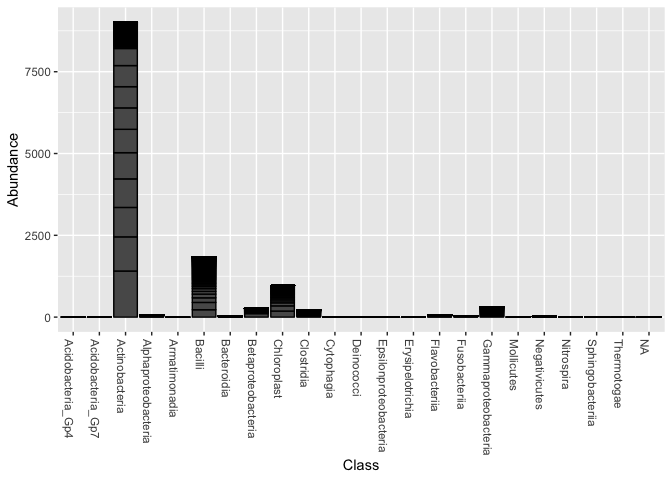
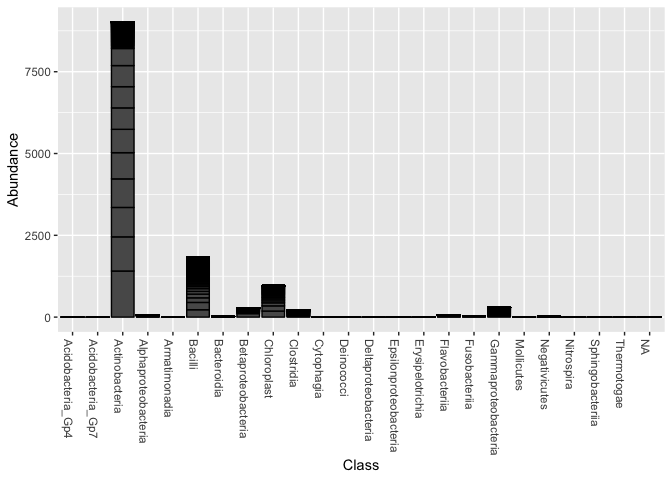
Passed Lint Check

Changed region(s): [[0.0938, 0.5312, 0.9688, 0.9688], [0.1562, 0.0312, 0.2188, 0.6562], [0.6875, 0.625, 0.7812, 0.6562]]

diff --git a/Analysis_Report_01_amplicons.md b/Analysis_Report_01_amplicons.md
@@ -2763,7 +2763,7 @@ unname(taxa)
     ##  [781,] "Bacteria" "Bacteroidetes"               "Flavobacteriia"       
     ##  [782,] "Bacteria" "Firmicutes"                  "Clostridia"           
     ##  [783,] "Bacteria" "Actinobacteria"              "Actinobacteria"       
-    ##  [784,] "Bacteria" NA                            NA                     
+    ##  [784,] "Bacteria" "Proteobacteria"              NA                     
     ##  [785,] "Bacteria" "Proteobacteria"              "Alphaproteobacteria"  
     ##  [786,] "Bacteria" "Firmicutes"                  "Bacilli"              
     ##  [787,] "Bacteria" "Proteobacteria"              "Gammaproteobacteria"  
@@ -2778,7 +2778,7 @@ unname(taxa)
     ##  [796,] "Bacteria" "Proteobacteria"              "Betaproteobacteria"   
     ##  [797,] "Bacteria" "Bacteroidetes"               "Sphingobacteriia"     
     ##  [798,] "Bacteria" "Proteobacteria"              "Gammaproteobacteria"  
-    ##  [799,] "Bacteria" "Candidatus_Saccharibacteria" NA                     
+    ##  [799,] "Bacteria" NA                            NA                     
     ##  [800,] "Bacteria" "Actinobacteria"              "Actinobacteria"       
     ##  [801,] "Bacteria" "Actinobacteria"              "Actinobacteria"       
     ##  [802,] "Bacteria" "Actinobacteria"              "Actinobacteria"       
@@ -3180,7 +3180,7 @@ unname(taxa)
     ## [1198,] "Bacteria" "Firmicutes"                  "Clostridia"           
     ## [1199,] "Bacteria" "Fusobacteria"                "Fusobacteriia"        
     ## [1200,] "Bacteria" "Bacteroidetes"               "Flavobacteriia"       
-    ## [1201,] "Bacteria" "Bacteroidetes"               "Bacteroidia"          
+    ## [1201,] "Bacteria" "Bacteroidetes"               NA                     
     ## [1202,] "Bacteria" "Bacteroidetes"               "Bacteroidia"          
     ## [1203,] "Bacteria" "Firmicutes"                  "Clostridia"           
     ## [1204,] "Bacteria" "Firmicutes"                  "Negativicutes"        
@@ -3298,7 +3298,7 @@ unname(taxa)
     ## [1316,] "Bacteria" "Proteobacteria"              "Gammaproteobacteria"  
     ## [1317,] "Bacteria" "Actinobacteria"              "Actinobacteria"       
     ## [1318,] "Bacteria" "Fusobacteria"                "Fusobacteriia"        
-    ## [1319,] "Bacteria" "Proteobacteria"              NA                     
+    ## [1319,] "Bacteria" "Proteobacteria"              "Deltaproteobacteria"  
     ## [1320,] "Bacteria" "Proteobacteria"              "Gammaproteobacteria"  
     ## [1321,] "Bacteria" "Actinobacteria"              "Actinobacteria"       
     ## [1322,] "Bacteria" "Bacteroidetes"               "Cytophagia"           
@@ -3426,7 +3426,7 @@ unname(taxa)
     ## [1444,] "Bacteria" "Proteobacteria"              "Alphaproteobacteria"  
     ## [1445,] "Bacteria" "Bacteroidetes"               "Bacteroidia"          
     ## [1446,] "Bacteria" "Proteobacteria"              "Alphaproteobacteria"  
-    ## [1447,] "Bacteria" "Firmicutes"                  "Clostridia"           
+    ## [1447,] "Bacteria" "Firmicutes"                  NA                     
     ## [1448,] "Bacteria" "Bacteroidetes"               "Bacteroidia"          
     ## [1449,] "Bacteria" "Acidobacteria"               "Acidobacteria_Gp4"    
     ## [1450,] "Bacteria" "Proteobacteria"              "Betaproteobacteria"   
@@ -3602,7 +3602,7 @@ unname(taxa)
     ##   [86,] "Actinomycetales"     "Micrococcaceae"                   
     ##   [87,] "Clostridiales"       "Peptostreptococcaceae"            
     ##   [88,] "Actinomycetales"     "Corynebacteriaceae"               
-    ##   [89,] "Bacillales"          NA                                 
+    ##   [89,] "Bacillales"          "Alicyclobacillaceae"              
     ##   [90,] "Lactobacillales"     "Carnobacteriaceae"                
     ##   [91,] "Lactobacillales"     "Streptococcaceae"                 
     ##   [92,] "Pseudomonadales"     "Pseudomonadaceae"                 
@@ -3774,7 +3774,7 @@ unname(taxa)
     ##  [258,] "Lactobacillales"     "Streptococcaceae"                 
     ##  [259,] "Clostridiales"       "Lachnospiraceae"                  
     ##  [260,] "Clostridiales"       "Ruminococcaceae"                  
-    ##  [261,] "Bacillales"          "Alicyclobacillaceae"              
+    ##  [261,] "Bacillales"          NA                                 
     ##  [262,] "Burkholderiales"     "Burkholderiaceae"                 
     ##  [263,] "Lactobacillales"     "Lactobacillaceae"                 
     ##  [264,] "Clostridiales"       "Ruminococcaceae"                  
@@ -3934,7 +3934,7 @@ unname(taxa)
     ##  [418,] "Clostridiales"       "Ruminococcaceae"                  
     ##  [419,] "Burkholderiales"     "Comamonadaceae"                   
     ##  [420,] "Solirubrobacterales" NA                                 
-    ##  [421,] "Bacillales"          "Alicyclobacillaceae"              
+    ##  [421,] "Bacillales"          NA                                 
     ##  [422,] "Actinomycetales"     "Actinomycetaceae"                 
     ##  [423,] "Actinomycetales"     "Propionibacteriaceae"             
     ##  [424,] "Pseudomonadales"     "Moraxellaceae"                    
@@ -4053,7 +4053,7 @@ unname(taxa)
     ##  [537,] "Clostridiales"       "Clostridiales_Incertae_Sedis_XI"  
     ##  [538,] "Pseudomonadales"     "Pseudomonadaceae"                 
     ##  [539,] "Actinomycetales"     NA                                 
-    ##  [540,] "Bacillales"          NA                                 
+    ##  [540,] "Bacillales"          "Alicyclobacillaceae"              
     ##  [541,] "Pseudomonadales"     "Pseudomonadaceae"                 
     ##  [542,] "Enterobacteriales"   "Enterobacteriaceae"               
     ##  [543,] "Pseudomonadales"     "Moraxellaceae"                    
@@ -4451,13 +4451,13 @@ unname(taxa)
     ##  [935,] "Clostridiales"       "Ruminococcaceae"                  
     ##  [936,] "Enterobacteriales"   "Enterobacteriaceae"               
     ##  [937,] "Bacillales"          "Staphylococcaceae"                
-    ##  [938,] "Bacillales"          NA                                 
+    ##  [938,] "Bacillales"          "Alicyclobacillaceae"              
     ##  [939,] "Bacteroidales"       "Prevotellaceae"                   
     ##  [940,] "Actinomycetales"     "Micrococcaceae"                   
     ##  [941,] "Flavobacteriales"    "Flavobacteriaceae"                
     ##  [942,] NA                    NA                                 
     ##  [943,] "Bacillales"          "Bacillales_Incertae_Sedis_XI"     
-    ##  [944,] "Bacillales"          NA                                 
+    ##  [944,] "Bacillales"          "Alicyclobacillaceae"              
     ##  [945,] "Lactobacillales"     "Carnobacteriaceae"                
     ##  [946,] "Actinomycetales"     "Dietziaceae"                      
     ##  [947,] "Flavobacteriales"    "Flavobacteriaceae"                
@@ -4514,7 +4514,7 @@ unname(taxa)
     ##  [998,] "Burkholderiales"     "Comamonadaceae"                   
     ##  [999,] "Flavobacteriales"    "Flavobacteriaceae"                
     ## [1000,] "Lactobacillales"     "Streptococcaceae"                 
-    ## [1001,] "Bacillales"          NA                                 
+    ## [1001,] "Bacillales"          "Alicyclobacillaceae"              
     ## [1002,] "Campylobacterales"   "Campylobacteraceae"               
     ## [1003,] "Actinomycetales"     NA                                 
     ## [1004,] "Bacillales"          "Bacillales_Incertae_Sedis_XI"     
@@ -4548,7 +4548,7 @@ unname(taxa)
     ## [1032,] "Bacteroidales"       "Prevotellaceae"                   
     ## [1033,] "Clostridiales"       "Lachnospiraceae"                  
     ## [1034,] "Clostridiales"       "Ruminococcaceae"                  
-    ## [1035,] "Clostridiales"       NA                                 
+    ## [1035,] "Clostridiales"       "Clostridiales_Incertae_Sedis_XIII"
     ## [1036,] "Clostridiales"       "Ruminococcaceae"                  
     ## [1037,] "Pseudomonadales"     "Pseudomonadaceae"                 
     ## [1038,] "Clostridiales"       "Clostridiales_Incertae_Sedis_XI"  
@@ -4645,7 +4645,7 @@ unname(taxa)
     ## [1129,] "Sphingomonadales"    "Sphingomonadaceae"                
     ## [1130,] "Rhodobacterales"     "Rhodobacteraceae"                 
     ## [1131,] "Actinomycetales"     "Nocardioidaceae"                  
-    ## [1132,] "Actinomycetales"     "Nocardioidaceae"                  
+    ## [1132,] "Actinomycetales"     NA                                 
     ## [1133,] NA                    NA                                 
     ## [1134,] "Fusobacteriales"     "Leptotrichiaceae"                 
     ## [1135,] "Clostridiales"       "Peptoniphilaceae"                 
@@ -4714,7 +4714,7 @@ unname(taxa)
     ## [1198,] "Clostridiales"       "Lachnospiraceae"                  
     ## [1199,] "Fusobacteriales"     "Leptotrichiaceae"                 
     ## [1200,] "Flavobacteriales"    "Flavobacteriaceae"                
-    ## [1201,] "Bacteroidales"       "Rikenellaceae"                    
+    ## [1201,] NA                    NA                                 
     ## [1202,] "Bacteroidales"       "Porphyromonadaceae"               
     ## [1203,] "Clostridiales"       "Ruminococcaceae"                  
     ## [1204,] "Selenomonadales"     "Veillonellaceae"                  
@@ -4894,7 +4894,7 @@ unname(taxa)
     ## [1378,] "Clostridiales"       "Ruminococcaceae"                  
     ## [1379,] "Clostridiales"       "Clostridiales_Incertae_Sedis_XI"  
     ## [1380,] "Deinococcales"       "Deinococcaceae"                   
-    ## [1381,] "Clostridiales"       NA                                 
+    ## [1381,] "Clostridiales"       "Ruminococcaceae"                  
     ## [1382,] "Fusobacteriales"     "Fusobacteriaceae"                 
     ## [1383,] "Bacteroidales"       "Porphyromonadaceae"               
     ## [1384,] "Lactobacillales"     "Carnobacteriaceae"                
@@ -4935,7 +4935,7 @@ unname(taxa)
     ## [1419,] "Bacteroidales"       "Prevotellaceae"                   
     ## [1420,] "Sphingomonadales"    "Sphingomonadaceae"                
     ## [1421,] "Bacillales"          "Bacillales_Incertae_Sedis_XII"    
-    ## [1422,] "Bacillales"          "Alicyclobacillaceae"              
+    ## [1422,] "Bacillales"          NA                                 
     ## [1423,] "Cytophagales"        "Cytophagaceae"                    
     ## [1424,] "Bacillales"          "Bacillaceae_1"                    
     ## [1425,] "Clostridiales"       "Ruminococcaceae"                  
@@ -5458,7 +5458,7 @@ unname(taxa)
     ##  [408,] "Pseudomonas"                    
     ##  [409,] "Propionibacterium"              
     ##  [410,] NA                               
-    ##  [411,] NA                               
+    ##  [411,] "Anaerovorax"                    
     ##  [412,] "Streptococcus"                  
     ##  [413,] "Anaerococcus"                   
     ##  [414,] "Peptoniphilus"                  
@@ -5560,7 +5560,7 @@ unname(taxa)
     ##  [510,] "Collinsella"                    
     ##  [511,] "Pseudomonas"                    
     ##  [512,] "Acinetobacter"                  
-    ##  [513,] "Enterobacter"                   
+    ##  [513,] NA                               
     ##  [514,] "Methylobacterium"               
     ##  [515,] "Ralstonia"                      
     ##  [516,] "Dolosigranulum"                 
@@ -5622,7 +5622,7 @@ unname(taxa)
     ##  [572,] "Streptococcus"                  
     ##  [573,] "Gemella"                        
     ##  [574,] NA                               
-    ##  [575,] "Dorea"                          
+    ##  [575,] NA                               
     ##  [576,] "Fusobacterium"                  
     ##  [577,] "Gemella"                        
     ##  [578,] "Intestinibacter"                
@@ -5659,7 +5659,7 @@ unname(taxa)
     ##  [609,] "Campylobacter"                  
     ##  [610,] "Clostridium_sensu_stricto"      
     ##  [611,] "Anaerostipes"                   
-    ##  [612,] "Haemophilus"                    
+    ##  [612,] NA                               
     ##  [613,] "Leptotrichia"                   
     ##  [614,] "Intestinibacter"                
     ##  [615,] "Aggregatibacter"                
@@ -5762,7 +5762,7 @@ unname(taxa)
     ##  [712,] "Anaerococcus"                   
     ##  [713,] "Acinetobacter"                  
     ##  [714,] "Subdoligranulum"                
-    ##  [715,] "Subdoligranulum"                
+    ##  [715,] NA                               
     ##  [716,] "Anaerococcus"                   
     ##  [717,] "Granulicatella"                 
     ##  [718,] "Anaerococcus"                   
@@ -5779,7 +5779,7 @@ unname(taxa)
     ##  [729,] "Acinetobacter"                  
     ##  [730,] "Streptococcus"                  
     ##  [731,] "Paracoccus"                     
-    ##  [732,] NA                               
+    ##  [732,] "Alloprevotella"                 
     ##  [733,] "Neisseria"                      
     ##  [734,] "Pseudomonas"                    
     ##  [735,] "Dietzia"                        
@@ -5822,7 +5822,7 @@ unname(taxa)
     ##  [772,] "Prevotella"                     
     ##  [773,] "Butyrivibrio"                   
     ##  [774,] "Bacteroides"                    
-    ##  [775,] NA                               
+    ##  [775,] "Intestinibacter"                
     ##  [776,] "Ilumatobacter"                  
     ##  [777,] "Weissella"                      
     ##  [778,] "Microbacterium"                 
@@ -5834,23 +5834,23 @@ unname(taxa)
     ##  [784,] NA                               
     ##  [785,] "Sphingomonas"                   
     ##  [786,] "Gemella"                        
-    ##  [787,] "Enterobacter"                   
+    ##  [787,] NA                               
     ##  [788,] "Peptoniphilus"                  
     ##  [789,] "Enhydrobacter"                  
     ##  [790,] "Haemophilus"                    
     ##  [791,] "Duganella"                      
-    ##  [792,] NA                               
+    ##  [792,] "Alloprevotella"                 
     ##  [793,] "Massilia"                       
     ##  [794,] "Corynebacterium"                
     ##  [795,] "Streptococcus"                  
     ##  [796,] "Acidovorax"                     
     ##  [797,] "Pedobacter"                     
-    ##  [798,] "Haemophilus"                    
+    ##  [798,] NA                               
     ##  [799,] NA                               
     ##  [800,] "Corynebacterium"                
     ##  [801,] NA                               
     ##  [802,] "Rothia"                         
-    ##  [803,] "Enhydrobacter"                  
+    ##  [803,] NA                               
     ##  [804,] "Veillonella"                    
     ##  [805,] "Chryseobacterium"               
     ##  [806,] "Terrabacter"                    
@@ -5955,7 +5955,7 @@ unname(taxa)
     ##  [905,] "Acidovorax"                     
     ##  [906,] "Prevotella"                     
     ##  [907,] "Neisseria"                      
-    ##  [908,] NA                               
+    ##  [908,] "Arcanobacterium"                
     ##  [909,] "Capnocytophaga"                 
     ##  [910,] NA                               
     ##  [911,] "Fusicatenibacter"               
@@ -6048,13 +6048,13 @@ unname(taxa)
     ##  [998,] "Acidovorax"                     
     ##  [999,] "Flavobacterium"                 
     ## [1000,] "Lactococcus"                    
-    ## [1001,] NA                               
+    ## [1001,] "Tumebacillus"                   
     ## [1002,] "Campylobacter"                  
     ## [1003,] NA                               
     ## [1004,] "Gemella"                        
     ## [1005,] "Dolosigranulum"                 
     ## [1006,] NA                               
-    ## [1007,] "Lachnospira"                    
+    ## [1007,] NA                               
     ## [1008,] "Neisseria"                      
     ## [1009,] "Dialister"                      
     ## [1010,] NA                               
@@ -6082,7 +6082,7 @@ unname(taxa)
     ## [1032,] "Prevotella"                     
     ## [1033,] "Blautia"                        
     ## [1034,] "Subdoligranulum"                
-    ## [1035,] NA                               
+    ## [1035,] "Anaerovorax"                    
     ## [1036,] "Faecalibacterium"               
     ## [1037,] "Pseudomonas"                    
     ## [1038,] "Murdochiella"                   
@@ -6094,7 +6094,7 @@ unname(taxa)
     ## [1044,] "Pseudomonas"                    
     ## [1045,] NA                               
     ## [1046,] NA                               
-    ## [1047,] "Tumebacillus"                   
+    ## [1047,] NA                               
     ## [1048,] "Rubellimicrobium"               
     ## [1049,] NA                               
     ## [1050,] "Capnocytophaga"                 
@@ -6104,7 +6104,7 @@ unname(taxa)
     ## [1054,] "Bacteroides"                    
     ## [1055,] NA                               
     ## [1056,] "Propionibacterium"              
-    ## [1057,] NA                               
+    ## [1057,] "Anaerostipes"                   
     ## [1058,] "Leptotrichia"                   
     ## [1059,] NA                               
     ## [1060,] "Bacteroides"                    
@@ -6179,7 +6179,7 @@ unname(taxa)
     ## [1129,] "Sphingobium"                    
     ## [1130,] "Paracoccus"                     
     ## [1131,] "Marmoricola"                    
-    ## [1132,] "Nocardioides"                   
+    ## [1132,] NA                               
     ## [1133,] NA                               
     ## [1134,] "Sneathia"                       
     ## [1135,] "Peptoniphilus"                  
@@ -6189,9 +6189,9 @@ unname(taxa)
     ## [1139,] NA                               
     ## [1140,] "Knoellia"                       
     ## [1141,] NA                               
-    ## [1142,] NA                               
+    ## [1142,] "Anaerovorax"                    
     ## [1143,] NA                               
-    ## [1144,] "Oscillibacter"                  
+    ## [1144,] NA                               
     ## [1145,] NA                               
     ## [1146,] "Porphyromonas"                  
     ## [1147,] "Peptoniphilus"                  
@@ -6231,9 +6231,9 @@ unname(taxa)
     ## [1181,] "Citrobacter"                    
     ## [1182,] "Prevotella"                     
     ## [1183,] "Sphingomonas"                   
-    ## [1184,] "Knoellia"                       
+    ## [1184,] NA                               
     ## [1185,] "Rothia"                         
-    ## [1186,] "Planococcus"                    
+    ## [1186,] NA                               
     ## [1187,] NA                               
     ## [1188,] "Peptoniphilus"                  
     ## [1189,] "Rothia"                         
@@ -6248,13 +6248,13 @@ unname(taxa)
     ## [1198,] NA                               
     ## [1199,] "Leptotrichia"                   
     ## [1200,] "Capnocytophaga"                 
-    ## [1201,] "Alistipes"                      
+    ## [1201,] NA                               
     ## [1202,] "Parabacteroides"                
     ## [1203,] "Ruminococcus"                   
     ## [1204,] "Selenomonas"                    
     ## [1205,] "Streptococcus"                  
     ## [1206,] "Brevibacterium"                 
-    ## [1207,] "Anaerostipes"                   
+    ## [1207,] NA                               
     ## [1208,] "Oscillibacter"                  
     ## [1209,] "Acinetobacter"                  
     ## [1210,] NA                               
@@ -6352,7 +6352,7 @@ unname(taxa)
     ## [1302,] NA                               
     ## [1303,] NA                               
     ## [1304,] NA                               
-    ## [1305,] "Alloprevotella"                 
+    ## [1305,] NA                               
     ## [1306,] "Parvimonas"                     
     ## [1307,] "Ramlibacter"                    
     ## [1308,] "Rhizobium"                      
@@ -6392,7 +6392,7 @@ unname(taxa)
     ## [1342,] NA                               
     ## [1343,] "Capnocytophaga"                 
     ## [1344,] "Terrisporobacter"               
-    ## [1345,] "Coprobacillus"                  
+    ## [1345,] NA                               
     ## [1346,] "Fusobacterium"                  
     ## [1347,] "Lactobacillus"                  
     ## [1348,] "Lactobacillus"                  
@@ -6425,7 +6425,7 @@ unname(taxa)
     ## [1375,] NA                               
     ## [1376,] "Paenibacillus"                  
     ## [1377,] "Paenibacillus"                  
-    ## [1378,] NA                               
+    ## [1378,] "Clostridium_IV"                 
     ## [1379,] "Anaerococcus"                   
     ## [1380,] "Deinococcus"                    
     ## [1381,] NA                               
@@ -6448,7 +6448,7 @@ unname(taxa)
     ## [1398,] NA                               
     ## [1399,] "Brevibacterium"                 
     ## [1400,] "Clavibacter"                    
-    ## [1401,] "Raoultella"                     
+    ## [1401,] NA                               
     ## [1402,] "Anaerococcus"                   
     ## [1403,] NA                               
     ## [1404,] "Rhizobium"                      
